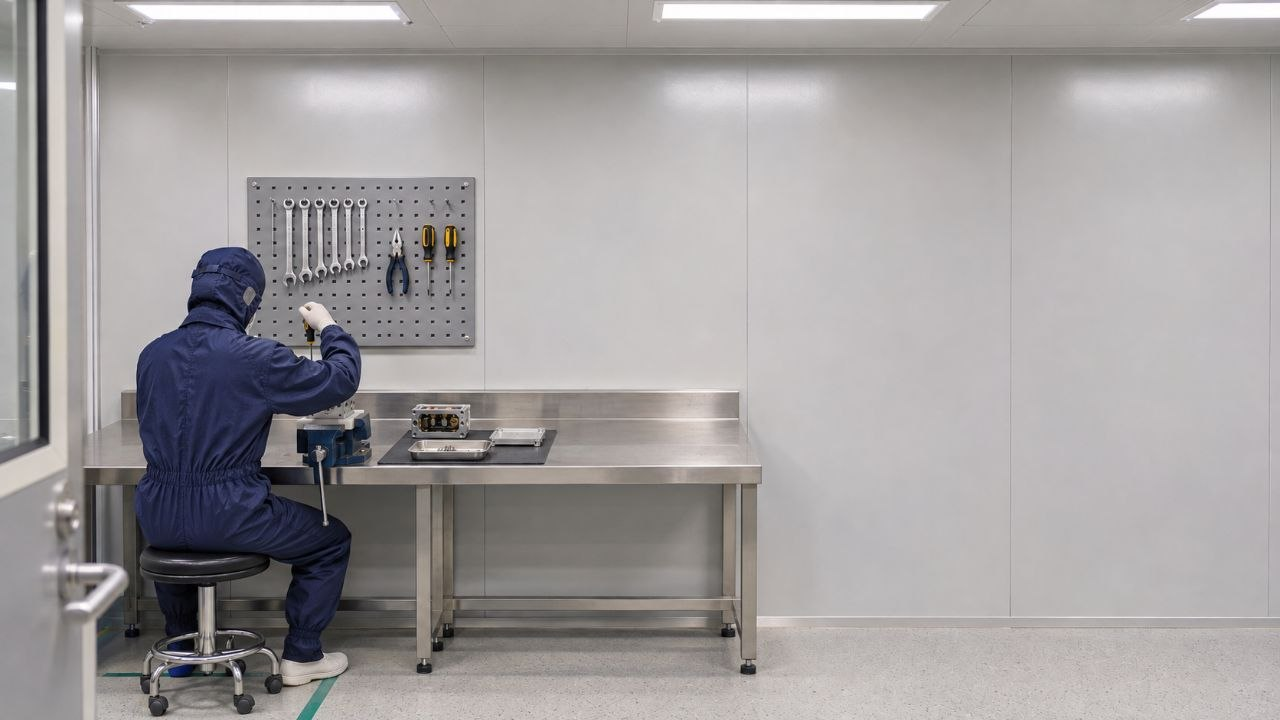
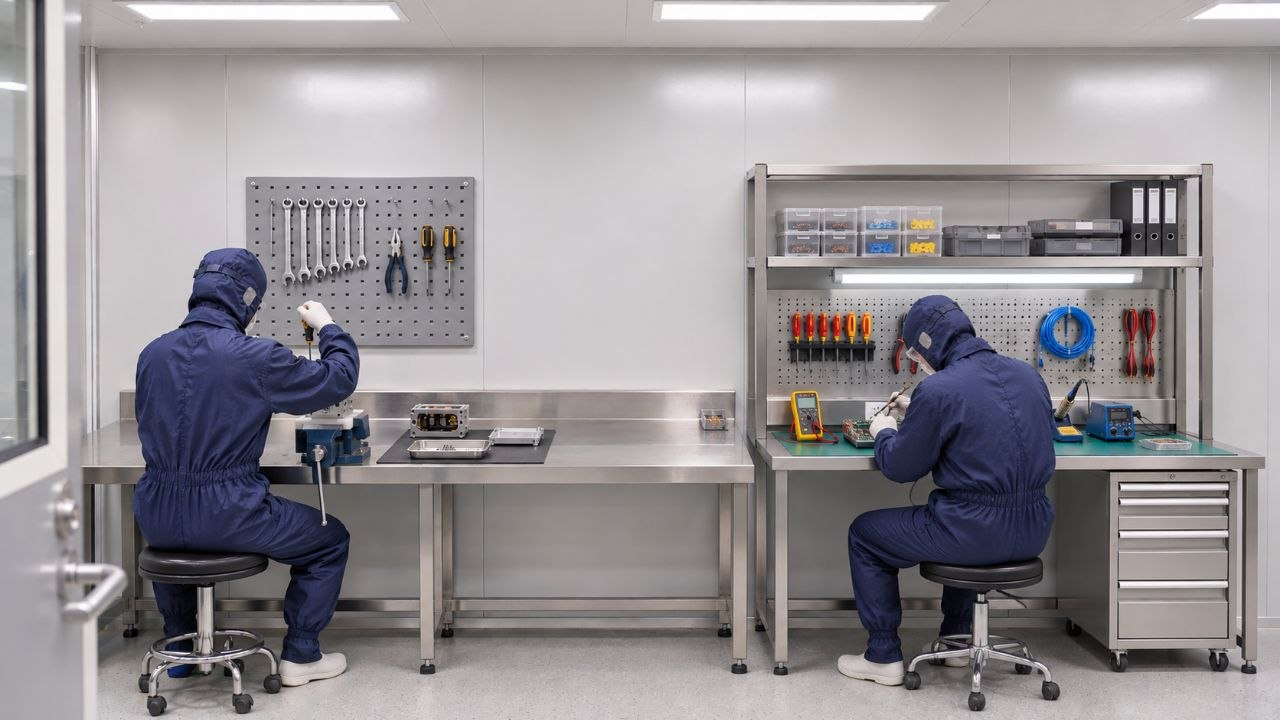
Refresh EQP Links background and layout

diff --git a/index.html b/index.html
@@ -51,7 +51,7 @@
         min-height: 100vh;
         min-height: 100dvh;
         display: grid;
-        padding-block: 60px;
+        padding-block: clamp(60px, 10vh, 96px) 32px;
         font: 14px/1.5 Geist, system-ui, sans-serif;
         background: var(--background);
         color: var(--foreground);
@@ -63,7 +63,8 @@
         inset: 0;
         z-index: -1;
         pointer-events: none;
-        background: url('./assets/maintenance-workshop.jpg') center / cover no-repeat;
+        background: linear-gradient(to bottom, var(--background), transparent 42%),
+                    url('./assets/maintenance-workshop.jpg') center / cover no-repeat;
         opacity: .52;
       }
       [data-theme="light"] body::before { opacity: .74; }
@@ -71,18 +72,13 @@
         body::before { background-position: 14% center; }
       }
       main {
-        width: min(520px, calc(100% - 32px));
-        place-self: center;
-        margin: 16px 0;
+        width: min(640px, calc(100% - 32px));
+        place-self: start center;
         text-align: center;
-        padding: clamp(16px, 4vw, 28px);
-        background: var(--card);
-        border: 1px solid var(--border);
-        border-radius: 8px;
       }
-      h1 { margin: 0; font-size: clamp(21px, 5vw, 26px); letter-spacing: -.025em; }
-      .section-title { margin: 4px 0 0; font-size: 17px; font-weight: 600; }
-      .subtitle { margin: 4px 0 20px; color: var(--muted-foreground); }
+      h1 { margin: 0; font-size: clamp(34px, 4.8vw, 42px); line-height: 1.15; letter-spacing: -.025em; text-wrap: balance; }
+      .section-title { margin: 8px 0 0; font-size: clamp(18px, 2.4vw, 22px); font-weight: 600; line-height: 1.25; }
+      .subtitle { margin: 6px 0 clamp(32px, 5vh, 46px); font-size: clamp(15px, 1.8vw, 17px); line-height: 1.4; color: var(--muted-foreground); text-wrap: balance; }
       .link-button, .theme-toggle {
         border: 1px solid var(--border);
         border-radius: 8px;
@@ -92,7 +88,7 @@
         font-weight: 600;
         text-decoration: none;
       }
-      .link-button { display: block; padding: 10px 12px; margin: 8px 0; }
+      .link-button { display: block; width: min(100%, 320px); padding: 11px 16px; margin: 10px auto 0; }
       .theme-toggle {
         position: absolute;
         top: 12px;
